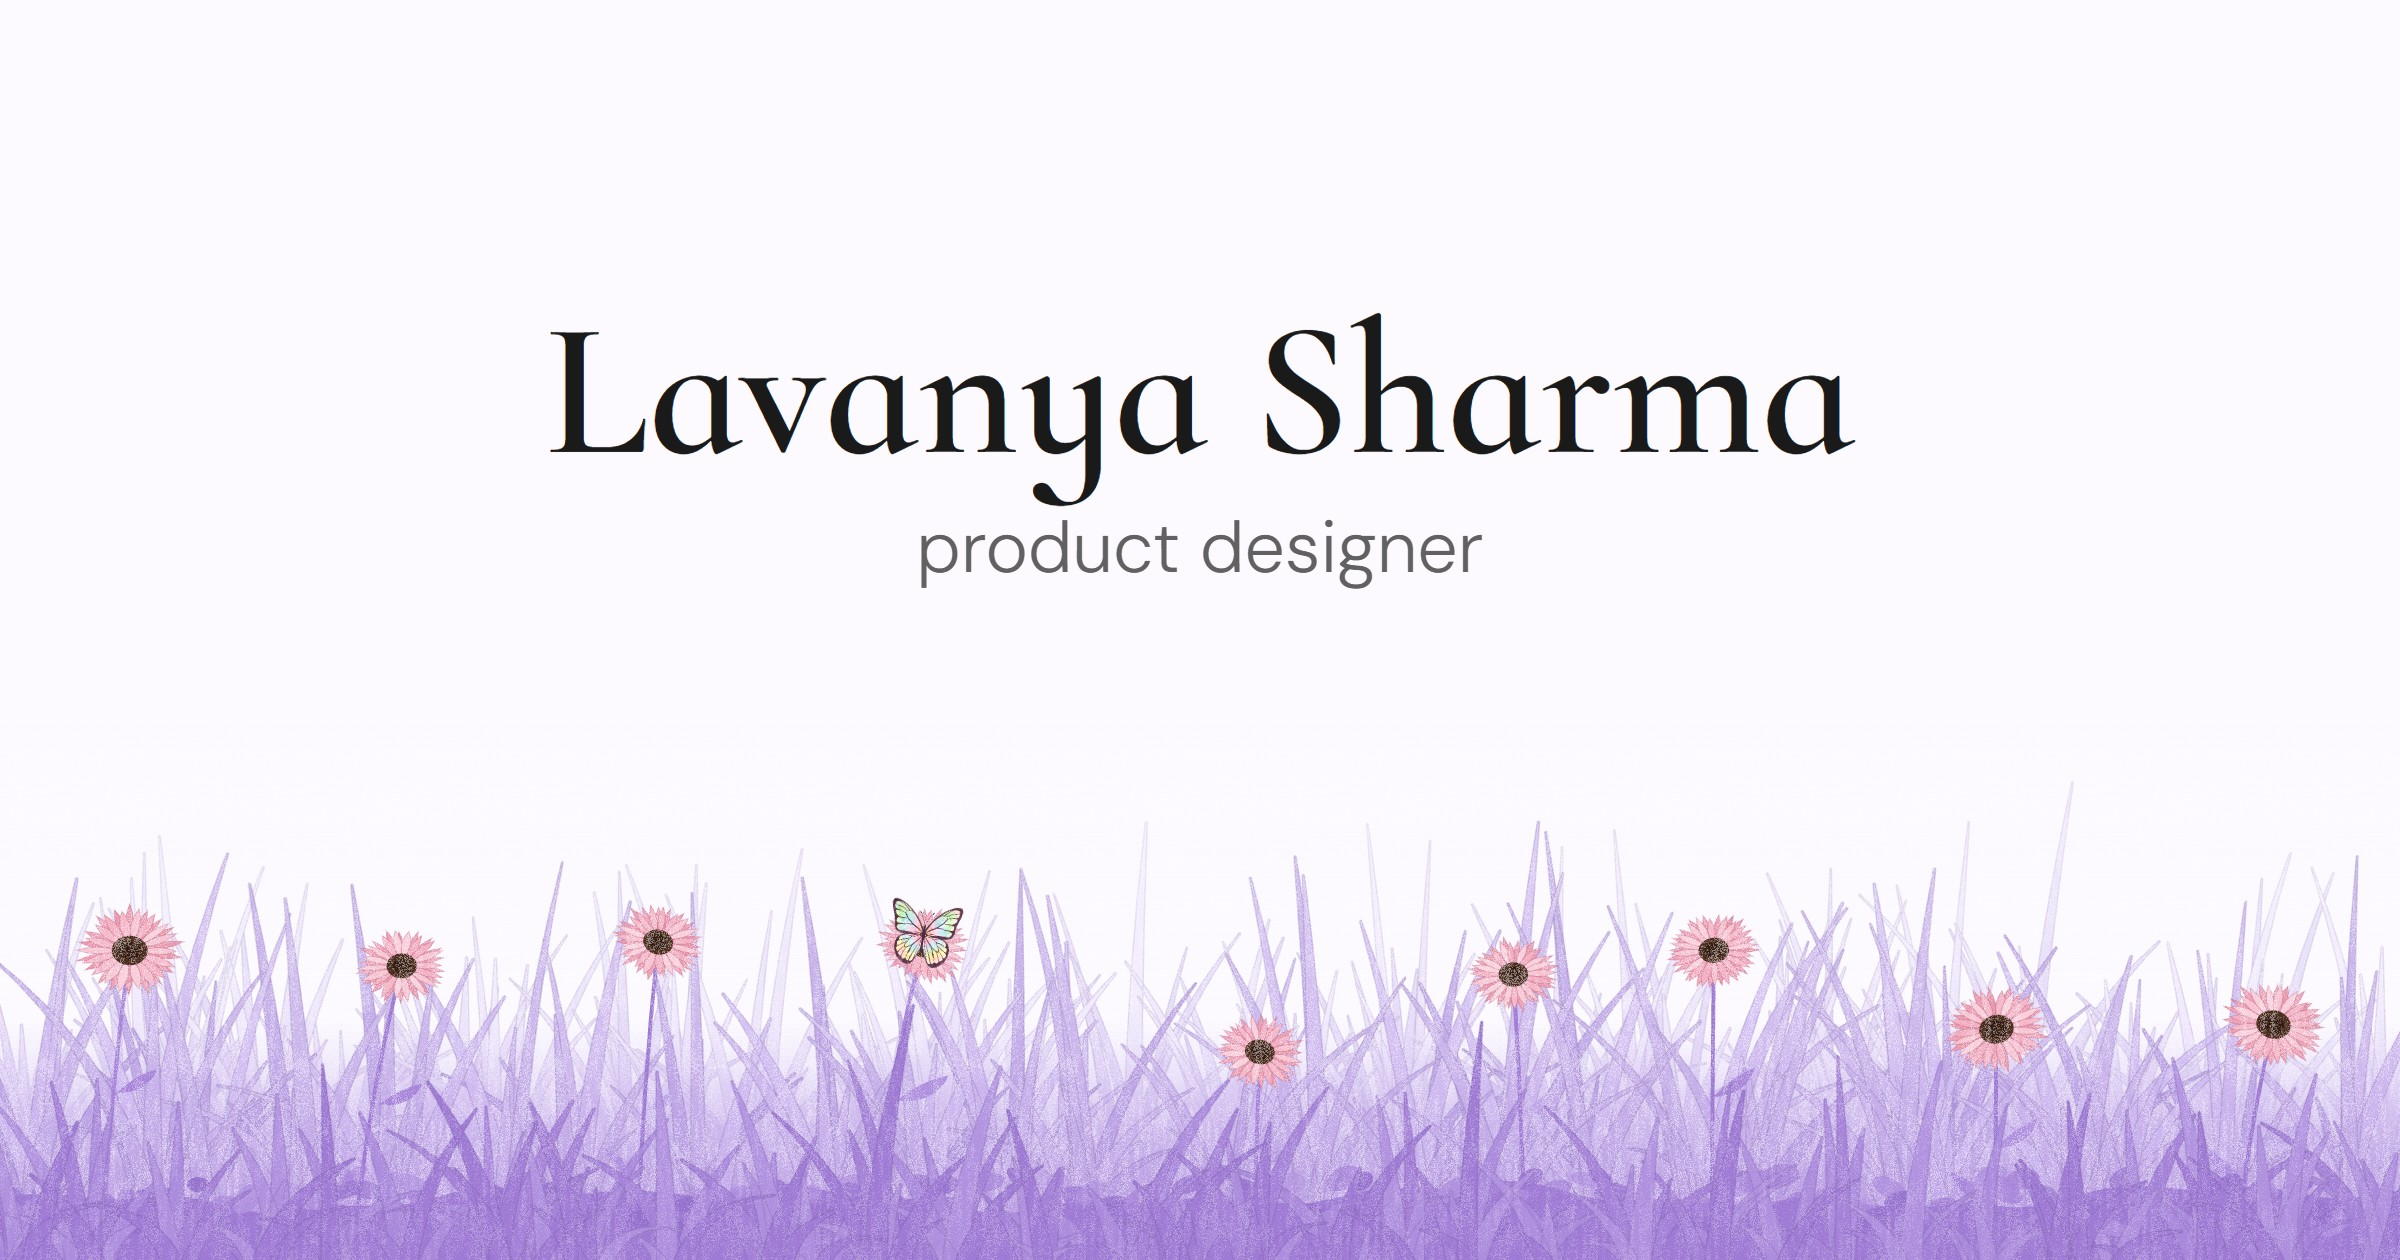
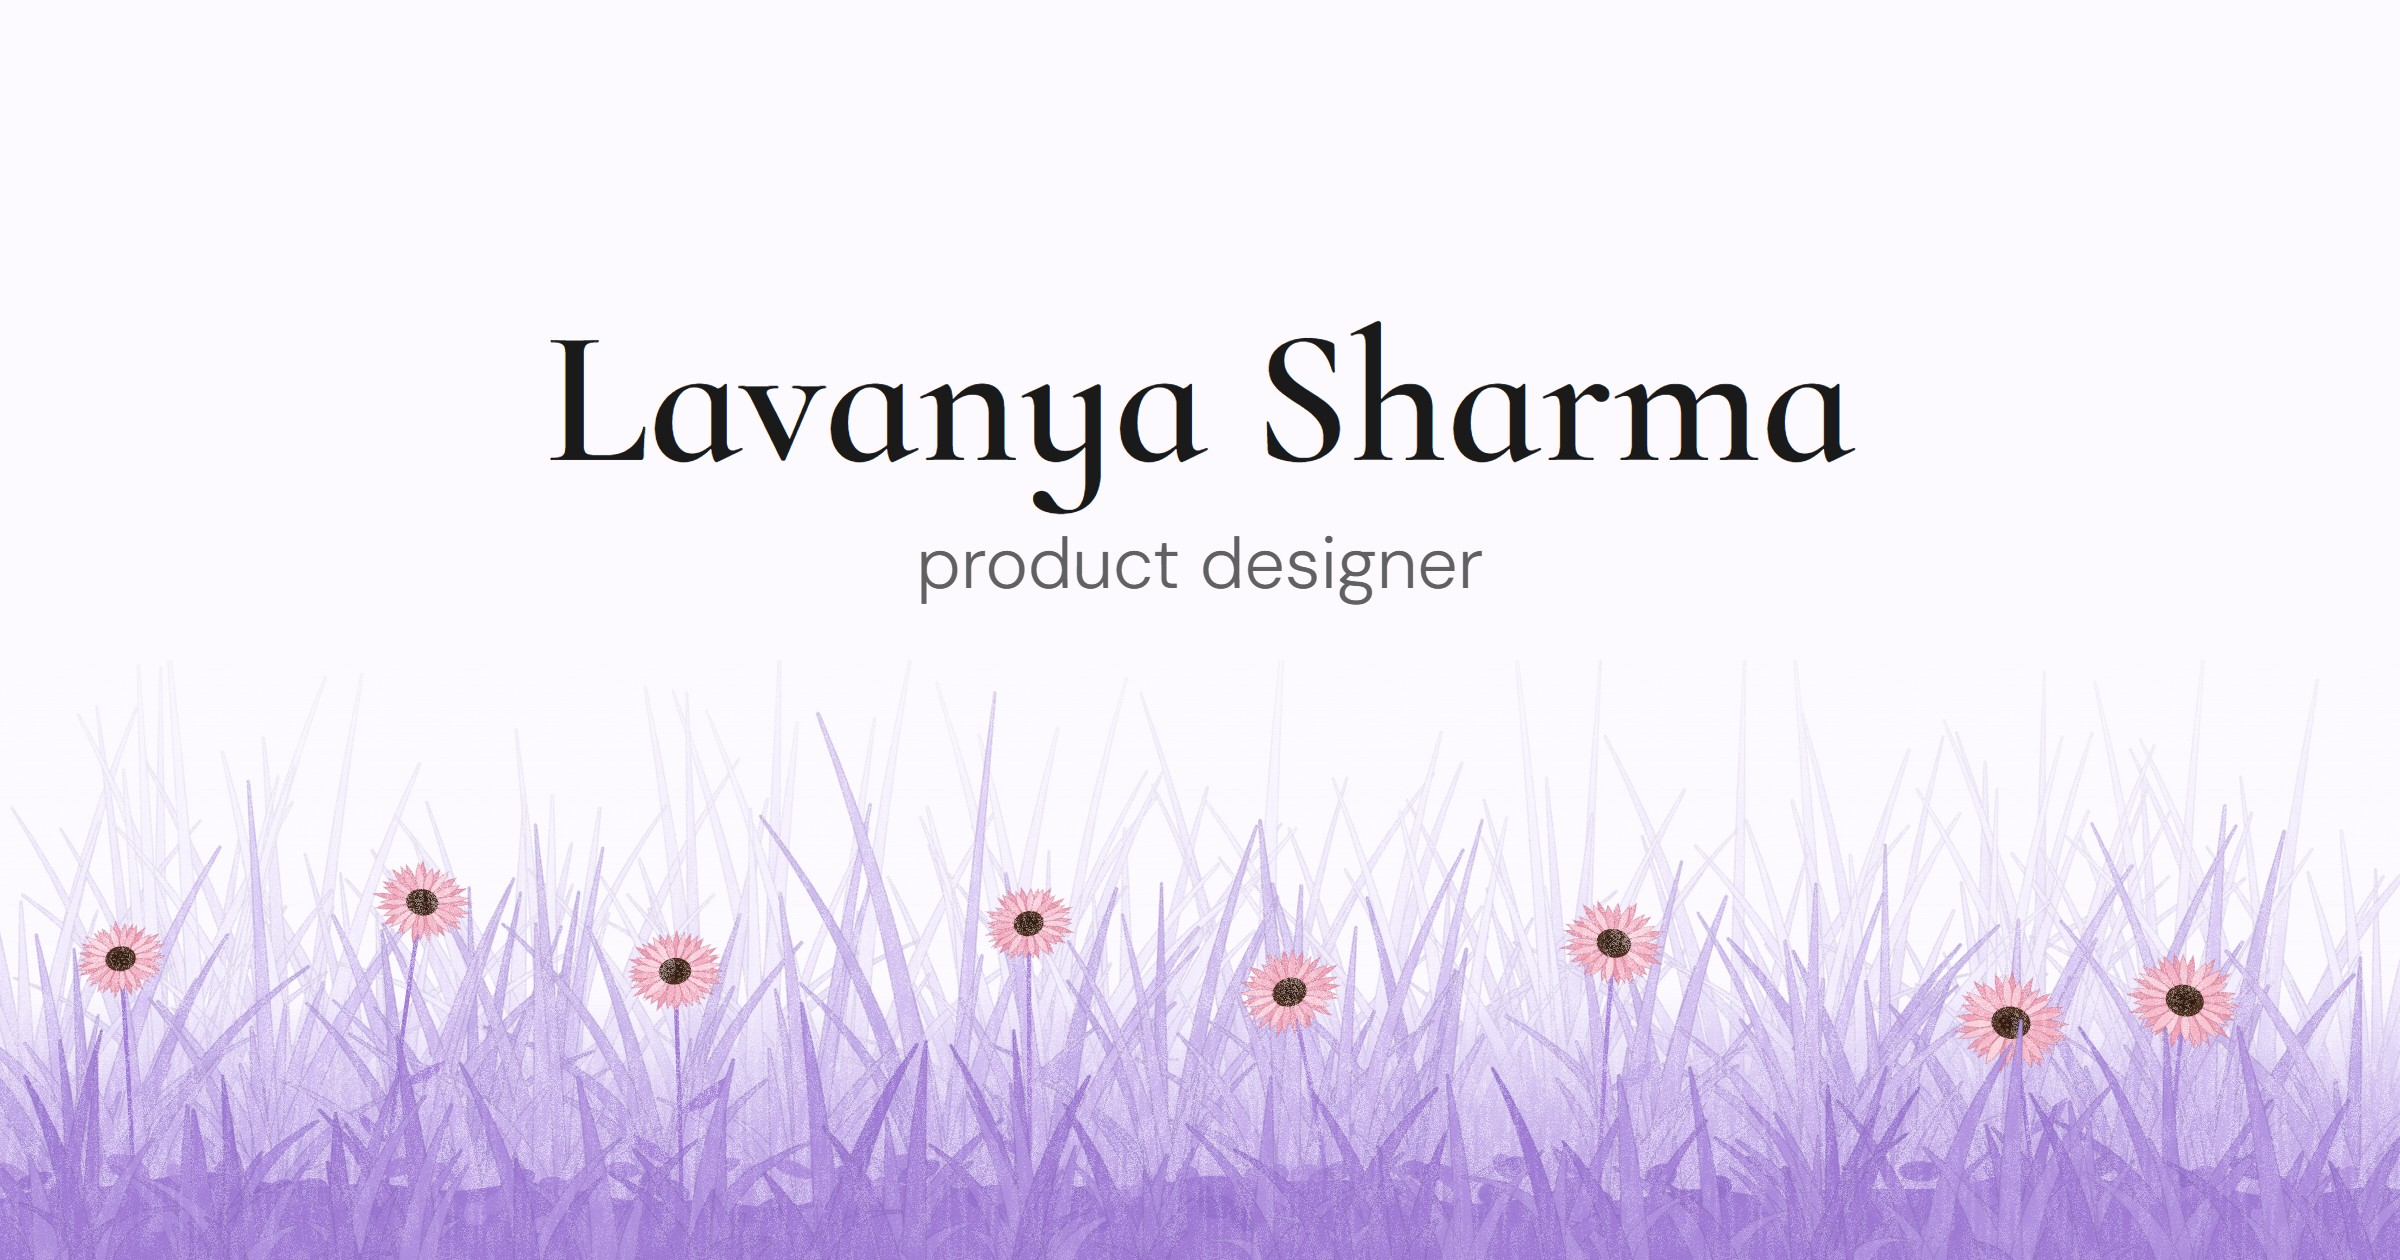
Share image: no butterfly, deeper garden, words 4 lower, 12 between the lines
Claude-Session: https://claude.ai/code/session_01QTRgHXGbCR4zFihuRi3tEX

diff --git a/art/share/share.html b/art/share/share.html
@@ -11,15 +11,18 @@
 <style>
   html,body{margin:0}
   .card{position:relative;width:1200px;height:630px;overflow:hidden;background:var(--color-white-default)}
-  .words{position:absolute;left:0;right:0;top:148px;display:flex;flex-direction:column;align-items:center;gap:8px;text-align:center}
+  .words{position:absolute;left:0;right:0;top:152px;display:flex;flex-direction:column;align-items:center;gap:12px;text-align:center}
   .name{margin:0;font-family:var(--font-serif);font-weight:600;font-size:96px;line-height:1;color:var(--color-black-default)}
   .role{margin:0;font-family:var(--font-sans);font-weight:300;font-variation-settings:"opsz" 14;font-size:36px;line-height:1.2;color:var(--color-black-highlight)}
-  .garden{position:absolute;left:0;right:0;bottom:0;height:268px}
+  .garden{position:absolute;left:0;right:0;bottom:0;height:300px}
   .garden canvas{display:block;width:100%;height:100%}
 </style>
 <script type="module">
   import '/src/index.css'
-  import { mountGarden } from '/src/components/footer/gardenScene.js'
+  import { mountGarden, GARDEN } from '/src/components/footer/gardenScene.js'
+  // for the card only (hers, 2026-11-23): no butterfly, and more depth: taller far grass that fades
+  // further into the page, on a slightly taller band. The site's garden keeps its own values.
+  Object.assign(GARDEN, { bSize: 0, farTall: 1.45, haze: 0.72 })
   mountGarden(document.querySelector('.garden canvas'), 'sunflowers')
   document.fonts.ready.then(() => setTimeout(() => { document.body.dataset.ready = '1' }, 600))
 </script>
